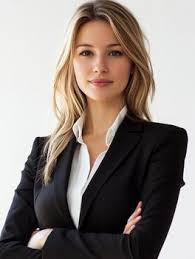
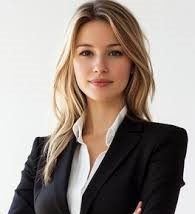
Dynamic Profile Card Mini Project

diff --git a/dynamic-profile-card/src/App.jsx b/dynamic-profile-card/src/App.jsx
@@ -18,16 +18,16 @@ const App = () => {
     },
     {
       id: 3,
-      name: 'James',
-      bio: 'UI/UX Designer',
-      avatar: './src/assets/555.jpg',
+      name: 'Usama',
+      bio: 'Communication Speaker',
+      avatar: './src/assets/usama.jpeg',
       isFollowed: false
     },
       {
       id: 4,
-      name: 'Toms',
+      name: 'M Yar',
       bio: 'ML Engineer',
-      avatar: './src/assets/2.jpg',
+      avatar: './src/assets/yar.jpeg',
       isFollowed: false
     },
     {
@@ -96,6 +96,7 @@ const App = () => {
     <div className={theme ? 'app dark' : 'app light'}>
 
       <header class="header">
+      
         <input 
         type="text" 
         placeholder='Type name'

diff --git a/dynamic-profile-card/src/index.css b/dynamic-profile-card/src/index.css
@@ -182,16 +182,20 @@ button{
 
 .light .theme-btn{
   background-color: #e9ecef;
-  color: #007bff;
+  color: #05080a;
   border: none;
   border-radius: 20px;
 }
 
 .dark .theme-btn{
   background-color: #343a40;
-  color: #4da3ff;
+  color: #fcfdfd;
    border: none;
   border-radius: 20px;
+}
+
+.theme-btn:hover{
+  transform:scale(1.05);
 }
 
 @media (max-width: 768px) {
